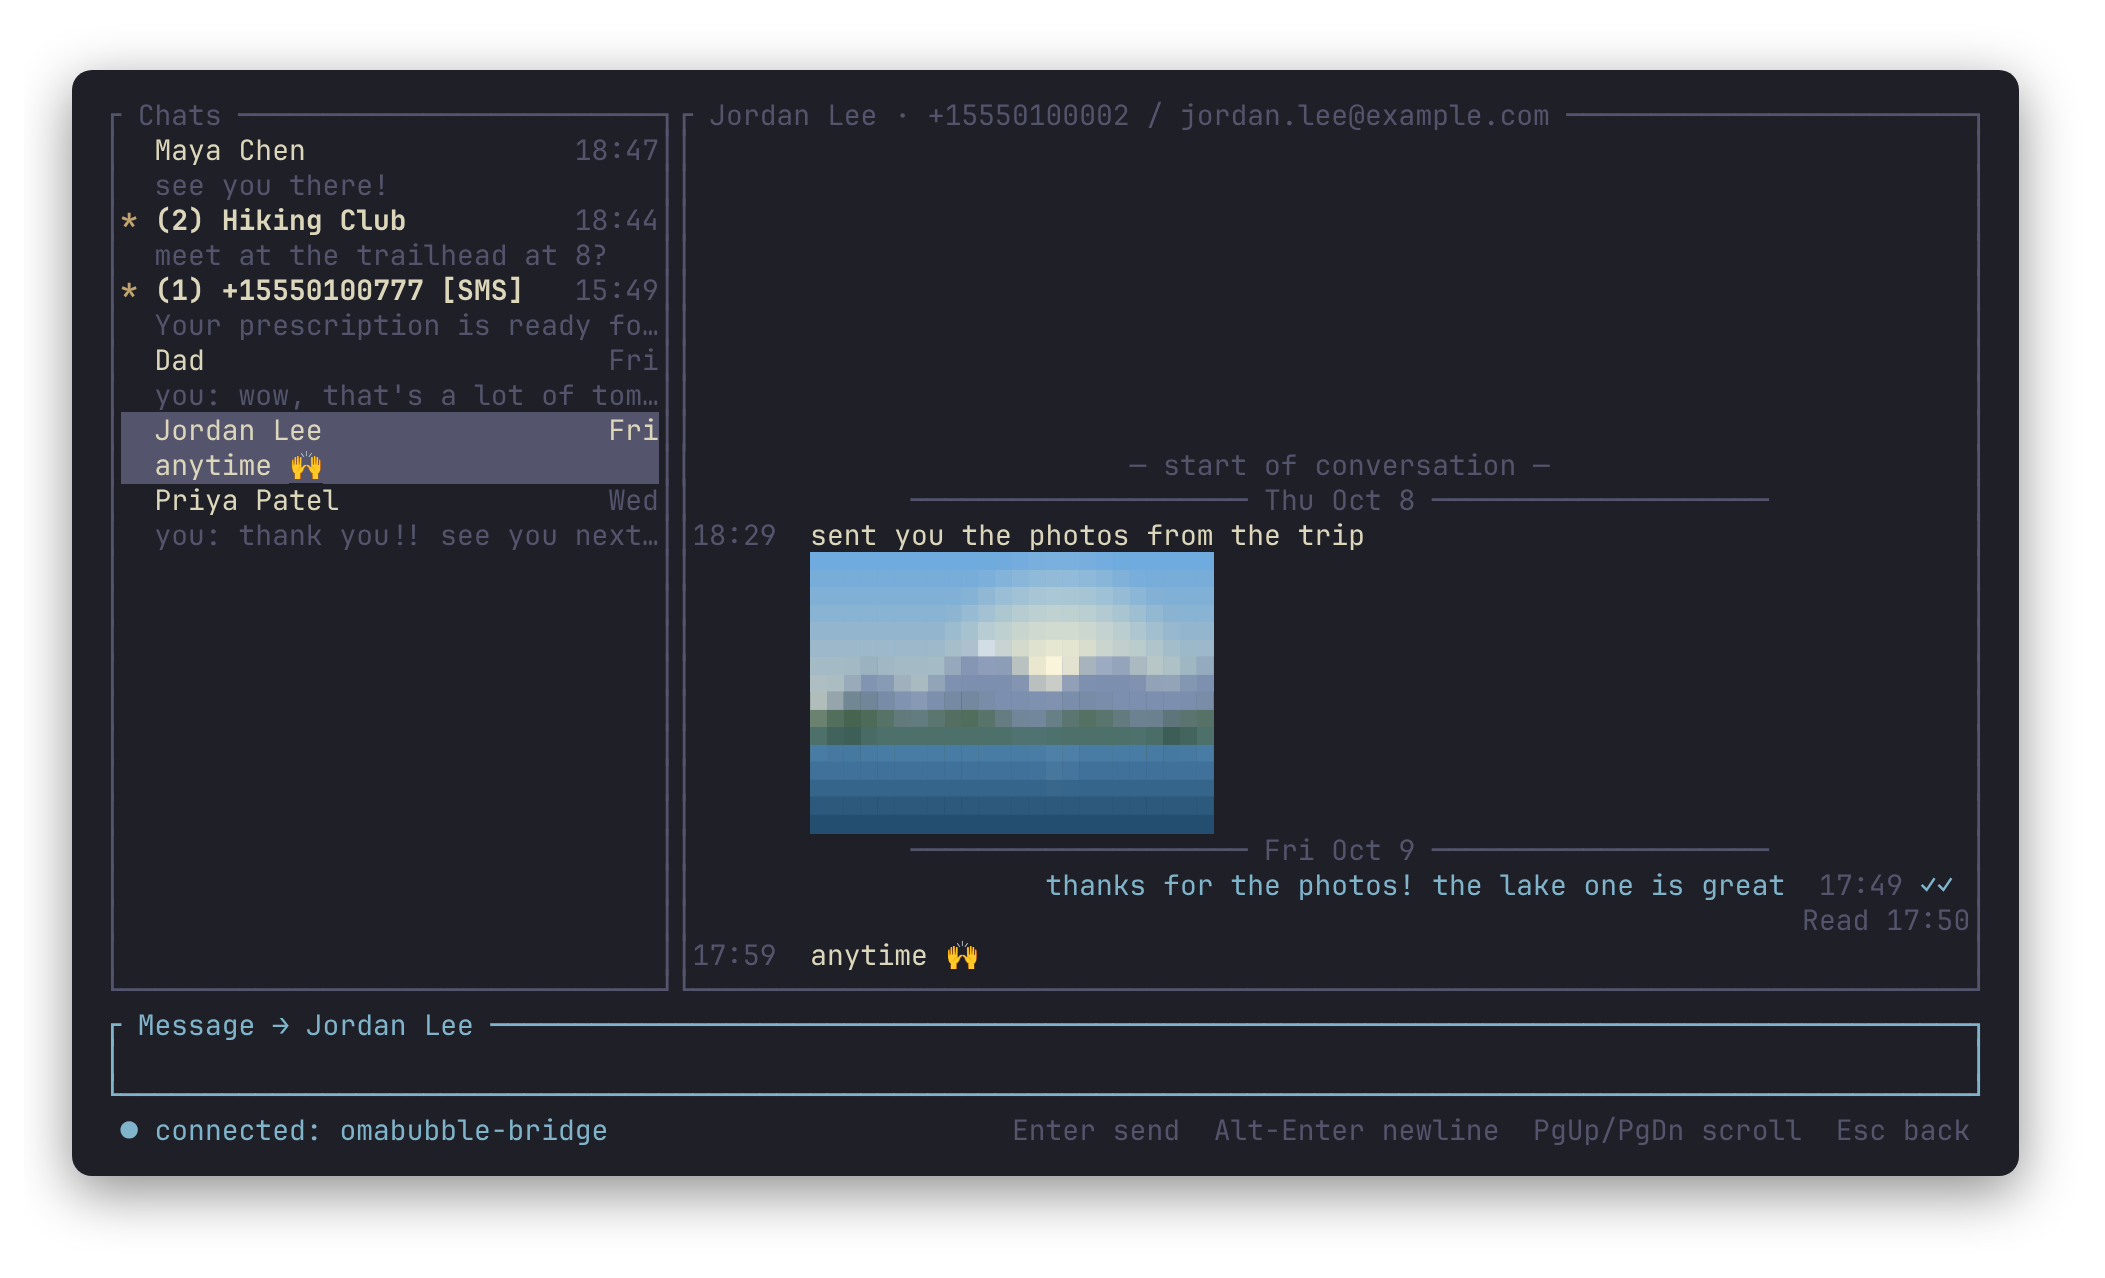
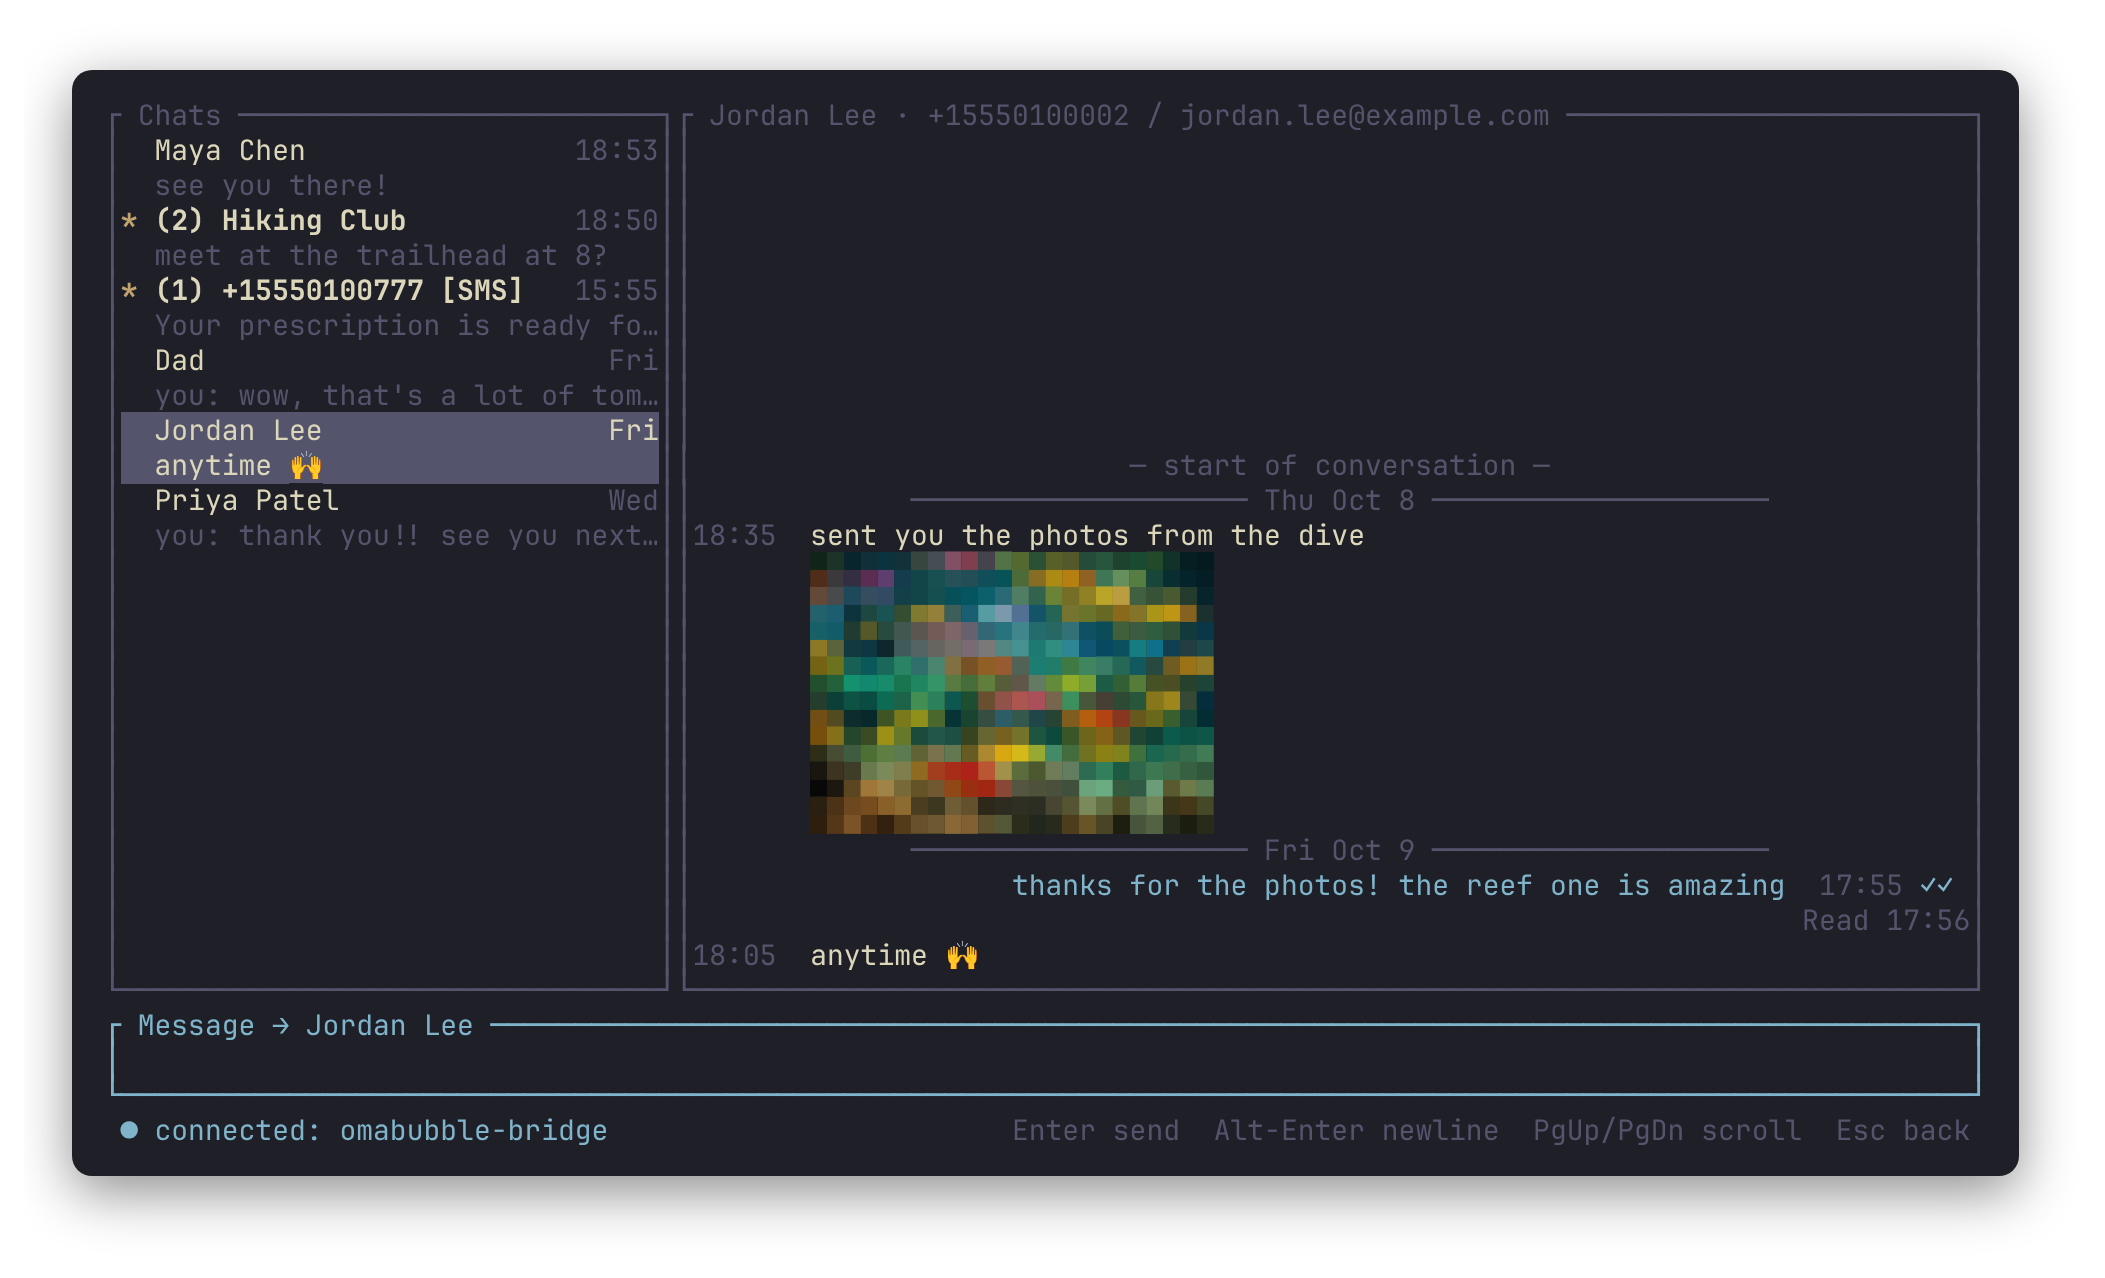
Use a reef photo for the demo's picture screenshots
Jordan's photo is now scripts/demo/reef.jpg (metadata stripped) instead of
a drawn lake; the demo chat mentions a dive and the reef to match.
pictures.py now only draws Dad's tomatoes.

Claude-Session: https://claude.ai/code/session_011ABmGi4G9Pd7yLg83uXyAD

diff --git a/scripts/demo/pictures.py b/scripts/demo/pictures.py
@@ -1,9 +1,9 @@
-"""Draw the demo's two made-up photos with ImageMagick.
+"""Draw Dad's made-up tomatoes photo for the demo with ImageMagick.
 
-    python3 scripts/demo/pictures.py <tomatoes.jpg> <lake.jpg>
+    python3 scripts/demo/pictures.py <tomatoes.jpg>
 
-Simple shapes and gradients, so they read well even as the TUI's half-block
-thumbnails.
+Simple shapes and gradients, so it reads well even as the TUI's half-block
+thumbnail.
 """
 
 import subprocess
@@ -53,33 +53,6 @@ def tomatoes(out, work):
     magick(bg, "-quality", "88", out)
 
 
-def lake(out):
-    """Jordan's lake: mountains at sunset over still water."""
-    magick(
-        "-size", "1200x800", "gradient:#6aa9e0-#fbd6a0",
-        "(", "-size", "760x760", "radial-gradient:#fff6d0-#fff6d000", ")",
-        "-geometry", "+360+0", "-composite",
-        "-fill", "#fff8de", "-draw", "circle 740,330 740,288",
-        "-fill", "#7d8fae",
-        "-draw", "polygon 0,500 180,330 320,420 520,240 700,400 880,280 1050,380 1200,320 1200,560 0,560",
-        "-fill", "#eef3fa",
-        "-draw", "polygon 520,240 470,300 505,292 540,312 575,290",
-        "-draw", "polygon 880,280 845,322 880,315 910,330",
-        "-fill", "#4d6a55",
-        "-draw", "polygon 0,560 0,470 140,430 300,480 470,440 650,500 820,450 1000,490 1200,450 1200,560",
-        "(", "-size", "1200x260", "gradient:#4f86b3-#1f4766", ")",
-        "-geometry", "+0+540", "-composite",
-        "-fill", "#2e4a39",
-        "-draw", "polygon 60,545 80,470 100,545", "-draw", "polygon 110,545 135,450 160,545",
-        "-draw", "polygon 1040,545 1065,460 1090,545", "-draw", "polygon 1095,545 1115,480 1135,545",
-        "-fill", "#fff8de66",
-        "-draw", "rectangle 690,580 790,585", "-draw", "rectangle 705,620 775,624",
-        "-draw", "rectangle 720,660 760,663",
-        "-blur", "0x1.2", "-quality", "88", out,
-    )
-
-
 if __name__ == "__main__":
     with tempfile.TemporaryDirectory() as work:
         tomatoes(sys.argv[1], Path(work))
-    lake(sys.argv[2])

diff --git a/CHANGELOG.md b/CHANGELOG.md
@@ -12,8 +12,9 @@ same one.
   `/usr/local/bin/omabubble-bridge`, where the bridge is installed.
 - README: setup in order (Mac, SSH key, Linux) with the steps that were
   missing (Remote Login, the Command Line Tools, the signing identity), and
-  screenshots of pictures in a conversation and in the viewer; the demo's
-  photos are redrawn by `scripts/demo/pictures.py`.
+  screenshots of pictures in a conversation and in the viewer. The demo's
+  photos are a reef picture (`scripts/demo/reef.jpg`) and tomatoes drawn by
+  `scripts/demo/pictures.py`.
 - Releases go to GitHub Releases, with a Linux build of the TUI and its
   checksum. The bridge isn't published, since it must be signed on your own
   Mac; `install-bridge.sh --release` installs the one `release.sh` built and
